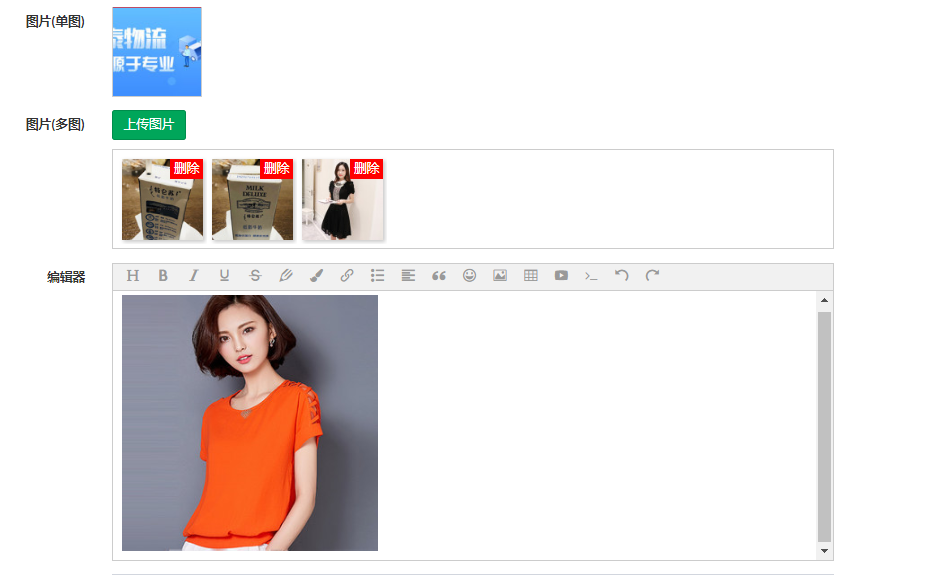
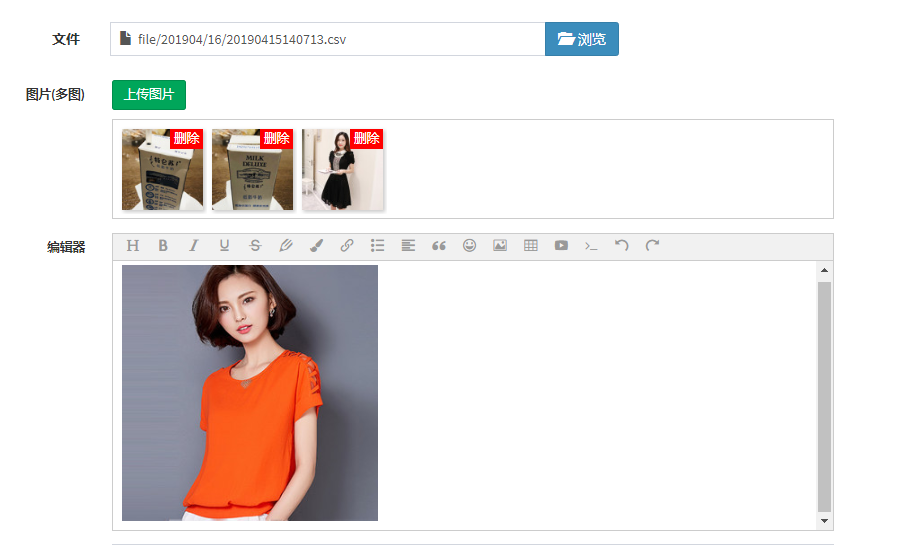
修改README.md文件和示例图片

diff --git a/resources/assets/upload.image.js b/resources/assets/upload.image.js
@@ -58,7 +58,7 @@
         if (expire < now + 300) {//300s缓冲
             //ajax
             $.ajax({
-                url:'/backend/alioss_param',
+                url:'/admin/alioss_param',
                 type:'get',
                 dataType:'json',
                 async: false,//同步
@@ -122,11 +122,20 @@
     window.del_pic = function(obj, multi) {
         obj = $(obj);
         var filename = '';
-        var warp = obj.parent();
-        filename = warp.find('img,a,audio,video').attr('data-filename');
-        warp.find('img,a,audio,video').remove();
-        warp.find('.upload_add_img').show();
-        warp.find('input.Js_upload_input').val('');
+        if(multi) {
+            filename = obj.attr('data-filename');
+            var upload_warp = obj.parents('div.upload_warp');
+            obj.parents('div.upload_item').remove();
+            if(upload_warp.find('.upload_item').length === 0) {
+                upload_warp.hide();
+            }
+        }else{
+            var warp = obj.parent();
+            filename = warp.find('img').attr('data-filename');
+            warp.find('img').remove();
+            warp.find('.upload_add_img').show();
+            warp.find('input.Js_upload_input').val('');
+        }
     }
 
     // 图片上传
@@ -134,34 +143,45 @@
         var element = $('#'+id);
         var upload_warp = multi ? $(element.attr('data-warp')) : element.parents('.Js_upload_warp');
         var container = $('<div style="height:0px;width:0px;display:none"></div>').appendTo(upload_warp);
+        if(multi) {
+            Sortable.create(upload_warp.get(0), {
+                group: {
+                    pull: false,
+                    put: false
+                },
+                handle: 'img',
+                ghostClass: 'upload_ghost',
+                chosenClass: 'upload_chose',
+            });
+        }
         var uploader = new plupload.Uploader({
             runtimes : 'html5,flash,silverlight,html4',
             browse_button : id,//'pickfiles',
             container: container.get(0),//document.getElementById('container'),
-            url : '/backend/upload_file',
+            url : '/admin/upload_file',
             flash_swf_url : './plupload-2.1.2/Moxie.swf',
             silverlight_xap_url : './plupload-2.1.2/Moxie.xap',
             multi_selection: multi,//false单选，true多选
             multipart_params: { '_token' : token },
             //过滤
             filters : {
-                max_file_size : '5gb',
+                max_file_size : '10mb',
                 mime_types: [
-                    {title : "文件", extensions : "gif,jpeg,jpg,png,bmp,text,txt,doc,docx,ppt,pptx,xls,xlsx,pdf,mp3,wav,aac,flac,avi,mov,flv,mp4,3gp"}
+                    {title : "Image files", extensions : "jpg,jpeg,gif,png"}
                 ]
             },
 
             init: {
                 FilesAdded: function(up, files) {
                     plupload.each(files, function(file) {
-                        // if(multi) {
-                        //     // 多图
-                        //     upload_warp.css('opacity',1).append('<div class="upload_item" id="'+file.id+'"><canvas id="'+file.id+'_canvas" width="90px" height="90px"></canvas></div>').show();
-                        // }else{
+                        if(multi) {
+                            // 多图
+                            upload_warp.css('opacity',1).append('<div class="upload_item" id="'+file.id+'"><canvas id="'+file.id+'_canvas" width="90px" height="90px"></canvas></div>').show();
+                        }else{
                             // 单图
                             element.hide();
                             upload_warp.prepend('<canvas id="'+file.id+'_canvas" width="90px" height="90px" style="margin-top: 5px;"></canvas>')
-                        // }
+                        }
                         ringChart(file.id+'_canvas', 0);
                     });
                     uploader.start();//选择文件后立即上传
@@ -178,24 +198,63 @@
                 FileUploaded: function(up, file, info) {
                     var path = key + filename_new;
                     var all_path = cdn_url + '/' + path;
-                    var type = file.type.split('/');
-                    // if(multi) {
-                    //     $('#'+file.id).html('<span class="upload_del_btn" data-filename="'+path+'" onclick="'+ "del_pic(this,true)" +'">删除</span><video controls src="' + all_path +'">您的浏览器不支持 video 标签。</video><input type="hidden" class="Js_upload_input" name="'+id.split('_')[0]+'[]" value="'+path+'">');
-                    // }else{
+                    if(multi) {
+                        $('#'+file.id).html('<span class="upload_del_btn" data-filename="'+path+'" onclick="'+ "del_pic(this,true)" +'">删除</span><img src="' + all_path +'?x-oss-process=image/resize,m_fill,w_100,h_100"><input type="hidden" class="Js_upload_input" name="'+id.split('_')[0]+'[]" value="'+path+'">');
+                    }else{
                         $('#'+file.id+'_canvas').remove();
-                        switch (type[0]) {
-                            case 'image':
-                                upload_warp.prepend('<image data-filename="'+path+'" src="' + all_path +'">').find('input.Js_upload_input').val(path);
-                                break;
-                            case 'video':
-                            case 'audio':
-                                upload_warp.prepend('<video controls data-filename="'+path+'" src="' + all_path +'">您的浏览器不支持 video 标签。</video>').find('input.Js_upload_input').val(path);
-                                break;
-                            default:
-                                upload_warp.prepend('<a data-filename="'+path+'" href="' + all_path +'">'+path+'</a>').find('input.Js_upload_input').val(path);
-                                break;
-                        }
-                    // }
+                        upload_warp.prepend('<img data-filename="'+path+'" src="' + all_path +'?x-oss-process=image/resize,m_fill,w_100,h_100">').find('input.Js_upload_input').val(path);
+                    }
+                },
+                Error: function(up, err) {
+                    alert("抱歉！出错了：" + err.message);
+                }
+            }
+        });
+        //初始化上传
+        uploader.init();
+    }
+
+    // 编辑器图片上传
+    window.init_upload_edit = function(editor, token){
+        var btnId = editor.imgMenuId;
+        var containerId = editor.toolbarElemId;
+        var textElemId = editor.textElemId;
+        var container = $('<div style="height:0;width:0;display:none"></div>').appendTo('body');
+        var uploader = new plupload.Uploader({
+            runtimes : 'html5,flash,silverlight,html4',
+            browse_button : btnId,//'pickfiles',
+            container: container.get(0),//document.getElementById('container'),
+            url : '/admin/upload_file',
+            flash_swf_url : './plupload-2.1.2/Moxie.swf',
+            silverlight_xap_url : './plupload-2.1.2/Moxie.xap',
+            multi_selection: false,//false单选，true多选
+            multipart_params: { '_token' : token },
+            //过滤
+            filters : {
+                max_file_size : '10mb',
+                mime_types: [
+                    {title : "Image files", extensions : "jpg,jpeg,gif,png"}
+                ]
+            },
+            init: {
+                FilesAdded: function(up, files) {
+                    var file = files[0];
+                    editor.cmd.do('insertHtml', '<canvas id="'+file.id+'_canvas" width="90px" height="90px" style="margin-top: 5px;"></canvas>');
+                    uploader.start();//选择文件后立即上传
+                },
+                BeforeUpload: function(up, file) {
+                    file_ext = get_suffix(file.name); //后缀名
+                    filename_new = Date.parse(new Date()) / 1000 + '_' + random_string(10) + file_ext;
+                    set_upload_param(up, filename_new); //重设参数
+                },
+                UploadProgress: function(up, file) {
+                    ringChart(file.id+'_canvas', file.percent);
+                },
+                FileUploaded: function(up, file, info) {
+                    var path = key + filename_new;
+                    var all_path = cdn_url + '/' + path;
+                    $('#'+file.id+'_canvas').remove();
+                    editor.cmd.do('insertHtml', '<img src="' + all_path + '" style="max-width:100%;"/>');
                 },
                 Error: function(up, err) {
                     alert("抱歉！出错了：" + err.message);

diff --git a/resources/assets/upload.file.js b/resources/assets/upload.file.js
@@ -41,7 +41,7 @@
     };
 
     var accessid = '', host = '', cdn_url = '', policyBase64 = '',
-        signature = '', key = '', expire = 0, file_ext = '';
+        signature = '', key = '', expire = 0;
 
     //获取签名函数
     function get_signature(callback) {
@@ -88,27 +88,16 @@
             });
         });
     }
-    //指定长度的随机字符串
-    function random_string(len) {
-        len = len || 32;
-        var chars = 'ABCDEFGHIJKLMNOPQRSTUVWXYZabcdefghijklmnopqrstuvwxyz0123456789';
-        var maxPos = chars.length;
-        var pwd = '';
-        for (i = 0; i < len; i++) {
-            pwd += chars.charAt(Math.floor(Math.random() * maxPos));
-        }
-        return pwd;
-    }
 
     // 图片上传
-    window.init_upload = function(id, multi, token){
+    window.init_upload_file = function(id, multi, token){
         var uploader = new plupload.Uploader({
             runtimes : 'html5,flash,silverlight,html4',
             browse_button : id,//'pickfiles',
             url : '/admin/upload_file',
             flash_swf_url : './plupload-2.1.2/Moxie.swf',
             silverlight_xap_url : './plupload-2.1.2/Moxie.xap',
-            multi_selection: multi,//false单选，true多选
+            multi_selection: false,//false单选，true多选
             multipart_params: { '_token' : token },
             //过滤
             filters : {
@@ -129,9 +118,9 @@
                 UploadProgress: function(up, file) {
                     ringChart('progress_canvas', file.percent);
                 },
-                FileUploaded: function(up, file, info) {
+                FileUploaded: function(up, file) {
                     var path = key + '/' + file.name;
-                    $('input.Js_upload_input').val(path);
+                    $('#js_upload_file').val(path);
                     $('#progress_box').hide();
                 },
                 Error: function(up, err) {

diff --git a/README.md b/README.md
@@ -24,12 +24,12 @@ return [
 
 ### 使用
 ```
-$form->file('pic', '单图');
+$form->file('file', '文件');
 $form->image('images', '多图');
 $form->editor('content', '编辑器');
 ```
 
 ### 截图
-![](https://github.com/airan587/alioss-form/blob/master/1.PNG?raw=true)
+![](https://github.com/cosyphp/alioss-form/blob/master/sample.png?raw=true)
 
 
